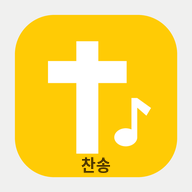
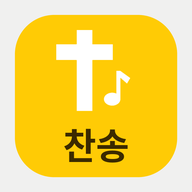
Add files via upload

Changed region(s): [[0.25, 0.1562, 0.7812, 0.9062]]

diff --git a/index.html b/index.html
@@ -3,7 +3,7 @@
 <head>
   <meta charset="UTF-8">
   <meta name="viewport" content="width=device-width, initial-scale=1.0, viewport-fit=cover">
-  <title>SK- 새찬송가앱</title>
+  <title>SK-hymn</title>
   <!-- PWA -->
   <link rel="manifest" href="manifest.webmanifest">
   <meta name="theme-color" content="#2563eb" id="themeColorMeta">
@@ -23,7 +23,7 @@
   <link rel="apple-touch-icon" href="apple-touch-icon.png">
   <meta name="apple-mobile-web-app-capable" content="yes">
   <meta name="apple-mobile-web-app-status-bar-style" content="default">
-  <meta name="apple-mobile-web-app-title" content="SK- 새찬송가앱">
+  <meta name="apple-mobile-web-app-title" content="SK-hymn">
   <style>
     :root {
       --bg: #ffffff;
@@ -226,8 +226,10 @@
     /* 제목을 누르면 목록으로 돌아간다는 작은 신호 */
     .viewer-title:active { opacity: .55; }
     .font-btns button.v-ico {
+      display: inline-flex; align-items: center; justify-content: center;
       font-size: 19px; line-height: 1; padding: 3px 7px; border: 0; background: none;
     }
+    .pen-ico { width: 17px; height: 17px; display: block; }
     /* 맨 오른쪽 작은 뒤로가기 */
     .font-btns button.v-back {
       font-size: 13px; font-weight: 700; padding: 5px 9px; border-radius: 7px;
@@ -414,20 +416,20 @@
     }
     .m-ok { background: var(--primary); color: #fff; }
     .m-cancel { background: var(--card-bg); color: var(--text); border: 1px solid var(--border) !important; }
-    .m-note { font-size: 12.5px; color: var(--sub-text); line-height: 1.55; margin: 10px 0; }
+    .m-note { font-size: 14px; color: var(--sub-text); line-height: 1.65; margin: 10px 0; }
     .m-sec { border-top: 1px solid var(--border); margin-top: 14px; padding-top: 14px; }
-    .m-sec-title { font-size: 14px; font-weight: bold; margin-bottom: 10px; }
+    .m-sec-title { font-size: 15.5px; font-weight: bold; margin-bottom: 10px; }
 
-    /* 가사 고치기 창만 화면 좌우를 넓게 쓴다 */
-    .modal.modal-wide { max-width: 680px; padding: 20px 22px; }
-    #modalWrap.wrap-wide { padding: 10px; }
+    /* 가사/CCM 편집 창은 화면을 최대한 넓게 사용한다 */
+    .modal.modal-wide { max-width: 780px; max-height: 92vh; padding: 18px 22px; }
+    #modalWrap.wrap-wide { padding: 8px; }
 
-    /* 가사 고치기 전용 — 글씨 크게 */
-    .modal textarea#edLyrics {
+    /* 편집창 가사 입력 영역 */
+    .modal textarea#edLyrics, .modal textarea#ccmLyrics {
       font-size: 20px !important; line-height: 1.7;
-      padding: 14px 16px; min-height: 42vh;
+      padding: 14px 16px; min-height: 55vh;
     }
-    .modal input#edTitle { padding: 12px 16px; }
+    .modal input#edTitle, .modal input#ccmTitle { padding: 12px 16px; }
     .modal input#edTitle { font-size: 20px; font-weight: 600; }
     .ed-size { display: flex; align-items: center; gap: 8px; margin: 2px 0 8px; }
     .ed-size button {
@@ -484,7 +486,7 @@
     /* 글자 크기 슬라이더 */
     .size-row { display: flex; align-items: center; gap: 10px; margin: 6px 0 2px; }
     .size-row input[type=range] { flex: 1; accent-color: var(--primary); }
-    .size-row .size-val { font-size: 13px; color: var(--sub-text); width: 44px; text-align: right; }
+    .size-row .size-val { font-size: 14.5px; color: var(--sub-text); width: 48px; text-align: right; }
     .size-prev { font-weight: 600; line-height: 1.5; padding: 10px 12px; background: var(--card-bg);
       border: 1px solid var(--border); border-radius: 9px; margin-top: 8px; }
 
@@ -538,7 +540,7 @@
     }
     .ver-main { font-size: 13px; color: var(--sub-text); }
     .ver-main b { color: var(--primary); }
-    .ver-sub { font-size: 11.5px; color: var(--sub-text); line-height: 1.6; margin-top: 3px; opacity: .85; }
+    .ver-sub { font-size: 13px; color: var(--sub-text); line-height: 1.6; margin-top: 3px; opacity: .9; }
 
     /* 토스트 */
     #toast {
@@ -579,8 +581,18 @@
       <div class="vh-top" onclick="vhTopTap(event)">
         <div class="vt-num" id="viewerNum"></div>
         <div class="font-btns">
-          <button id="btnEditCcm" style="display:none;" onclick="openCcmEditor(keyOf(currentHymn))">✏</button>
-          <button class="v-ico" id="btnEditLyrics" style="display:none;" onclick="openLyricsEditor()" title="가사 고치기">✏</button>
+          <button class="v-ico" id="btnEditCcm" style="display:none;" onclick="openCcmEditor(keyOf(currentHymn))" title="CCM 수정">
+            <svg class="pen-ico" viewBox="0 0 16 16" aria-hidden="true">
+            <path d="M4 12.4 L5.4 10.2 L10.3 5.3 L11.8 6.8 L6.9 11.7 Z" fill="currentColor"/>
+            <path d="M9.2 6.4 L10.6 7.8" stroke="var(--card-bg)" stroke-width="1" stroke-linecap="round"/>
+          </svg>
+          </button>
+          <button class="v-ico" id="btnEditLyrics" style="display:none;" onclick="openLyricsEditor()" title="가사 고치기">
+            <svg class="pen-ico" viewBox="0 0 16 16" aria-hidden="true">
+            <path d="M4 12.4 L5.4 10.2 L10.3 5.3 L11.8 6.8 L6.9 11.7 Z" fill="currentColor"/>
+            <path d="M9.2 6.4 L10.6 7.8" stroke="var(--card-bg)" stroke-width="1" stroke-linecap="round"/>
+          </svg>
+          </button>
           <button class="v-ico" onclick="addToPlaylistModal()" title="예배순서에 담기">＋</button>
           <button class="v-ico" id="viewerStar" onclick="toggleFavCurrent()" title="즐겨찾기">★</button>
           <button class="v-back" onclick="safeBack()" title="이전 화면으로">‹ 뒤로</button>
@@ -619,9 +631,9 @@
 
   <script>
     // ================== 앱 버전 ==================
-    const APP_VERSION = 'v9.9';
+    const APP_VERSION = 'v9.10';
     const APP_BUILD   = '2026-11-25';
-    const APP_NAME    = 'SK- 새찬송가앱';
+    const APP_NAME    = 'SK-hymn';
 
     let hymns = [];            // 찬송가 645장
     let ccms = [];             // ccm.json (파일로 올린 CCM)
@@ -1807,7 +1819,7 @@
         <div class="m-sec-title">제목</div>
         <input type="text" id="edTitle" value="${esc(h.title)}" autocomplete="off">
         <div class="m-sec-title">가사</div>
-        <textarea id="edLyrics" rows="13">${esc(h.lyrics || '')}</textarea>
+        <textarea id="edLyrics" rows="18">${esc(h.lyrics || '')}</textarea>
         <div class="m-note">\uc904\ubc14\uafc8\uc740 <b>\uc5d4\ud130</b>\ub85c \ub098\ub215\ub2c8\ub2e4. \uc808 \uc2dc\uc791\uc740 <code>(1) (2) (\ud6c4\ub834)</code> \ud615\uc2dd\uc744 \uc9c0\ucf1c \uc8fc\uc138\uc694.<br>
           \uc800\uc7a5\ud558\uba74 <b>\uadf8\uac83\uc774 \uc774 \uc571\uc758 \uac00\uc0ac\uac00 \ub429\ub2c8\ub2e4.</b> \uc5c5\ub370\uc774\ud2b8\ud574\ub3c4 \uc720\uc9c0\ub429\ub2c8\ub2e4.</div>
         <div class="m-btns" style="margin-top:12px;">
@@ -2091,7 +2103,7 @@
         <div class="m-sec-title">태그 (쉼표로 구분, 선택)</div>
         <input type="text" id="ccmTags" placeholder="예: 경배, 느린곡" value="${c ? esc((c.tags || []).join(', ')) : ''}" autocomplete="off">
         <div class="m-sec-title">가사</div>
-        <textarea id="ccmLyrics" rows="9" placeholder="(1) 첫째 절 가사&#10;(후렴) 후렴 가사&#10;(2) 둘째 절 가사">${c ? esc(c.lyrics) : ''}</textarea>
+        <textarea id="ccmLyrics" rows="16" placeholder="(1) 첫째 절 가사&#10;(후렴) 후렴 가사&#10;(2) 둘째 절 가사">${c ? esc(c.lyrics) : ''}</textarea>
         <div class="m-note">
           <b>(1) (2) (후렴)</b> 표기를 넣으면 프로젝터에서 한 절씩 넘어가고, 후렴은 색이 다르게 표시됩니다.
         </div>
@@ -2104,7 +2116,7 @@
           이 곡은 <b>내 폰에만</b> 저장됩니다. 교인 모두에게 배포하려면
           ⚙ 설정 → <b>내 CCM 내보내기</b>로 텍스트를 뽑아 <code>ccm.json</code>에 반영하세요.
         </div>
-      `);
+      `, true);
       setTimeout(() => { const i = $('ccmTitle'); if (i) i.focus(); }, 60);
     }
 
@@ -2264,30 +2276,30 @@
           <div class="m-btns">
             <button class="m-ok" onclick="openEditList()">목록 보기 · 내보내기</button>
           </div>
-          <div class="m-note">가사 화면의 <b>✏</b> 를 눌러 줄바꿈이나 오타를 고칠 수 있습니다. 고친 내용은 <b>이 폰에 저장</b>되고 앱을 업데이트해도 유지됩니다. 내보낸 <code>가사수정.json</code> 을 보내주시면 다음 버전부터 모든 교인에게 반영됩니다.</div>
+          <div class="m-note">가사 화면의 <b>연필 버튼</b>을 눌러 줄바꿈이나 오타를 고칠 수 있습니다. 고친 내용은 <b>이 폰에 저장</b>되고 앱을 업데이트해도 유지됩니다. 내보낸 <code>가사수정.json</code> 을 보내주시면 다음 버전부터 모든 교인에게 반영됩니다.</div>
         </div>
         <div class="m-sec">
           <div class="m-sec-title">🔤 글자 크기</div>
           <div class="size-row">
-            <span style="font-size:13px;">가</span>
+            <span style="font-size:14.5px;">가</span>
             <input type="range" id="sizeRange" min="17" max="48" step="1" value="${fontSize}" oninput="setFontSize(this.value)">
             <span style="font-size:22px;">가</span>
             <span class="size-val" id="sizeVal">${fontSize}px</span>
           </div>
-          <div class="size-hint" style="font-size:12.5px;color:var(--sub-text);margin:2px 0 8px;">가사 화면에서 두 손가락으로 벌리면 바로 커집니다</div>
+          <div class="size-hint" style="font-size:14px;color:var(--sub-text);margin:2px 0 8px;">가사 화면에서 두 손가락으로 벌리면 바로 커집니다</div>
           <div class="size-prev" id="sizePrev" style="font-size:${fontSize}px;">주 사랑 안에 우리 함께</div>
           <div class="m-sec-title" style="margin-top:14px;">📏 줄 간격 (행간)</div>
           <div class="size-row">
-            <span style="font-size:13px;">좁게</span>
+            <span style="font-size:14.5px;">좁게</span>
             <input type="range" id="lhRange" min="1.1" max="2.4" step="0.05" value="${lineH}" oninput="setLineH(this.value)">
-            <span style="font-size:13px;">넓게</span>
+            <span style="font-size:14.5px;">넓게</span>
             <span class="size-val" id="lhVal">${lineH.toFixed(2)}</span>
           </div>
           <div class="m-sec-title" style="margin-top:14px;">↕ 절과 절 사이 간격</div>
           <div class="size-row">
-            <span style="font-size:13px;">붙게</span>
+            <span style="font-size:14.5px;">붙게</span>
             <input type="range" id="gapRange" min="0" max="3" step="0.1" value="${verseGap}" oninput="setVerseGap(this.value)">
-            <span style="font-size:13px;">넓게</span>
+            <span style="font-size:14.5px;">넓게</span>
             <span class="size-val" id="gapVal">${verseGap.toFixed(1)}</span>
           </div>
           <div class="size-prev2" id="gapPrev" style="font-size:${Math.min(fontSize,20)}px;">
@@ -2296,7 +2308,7 @@
           </div>
           <div class="m-sec-title" style="margin-top:14px;">📽 프로젝터 글자 크기</div>
           <div class="size-row">
-            <span style="font-size:13px;">가</span>
+            <span style="font-size:14.5px;">가</span>
             <input type="range" id="projRange" min="60" max="220" step="5" value="${projScale}" oninput="setProjSize(this.value)">
             <span style="font-size:22px;">가</span>
             <span class="size-val" id="projVal">${projScale}%</span>
@@ -2867,7 +2879,7 @@
   </script>
   <div id="zoomBadge"></div>
   <div id="updBar">
-    <div class="txt">새 버전이 나왔습니다 <span id="updVer"></span><small>눌러서 바로 받기 (몇 초면 끝납니다)</small></div>
+    <div class="txt">SK-hymn 새 버전이 있습니다 <span id="updVer"></span><small>눌러서 바로 받기 (몇 초면 끝납니다)</small></div>
     <button onclick="forceUpdate()">업데이트</button>
     <button class="later" onclick="dismissUpdate()">나중에</button>
   </div>

diff --git a/sw.js b/sw.js
@@ -2,13 +2,14 @@
 // html/데이터는 '네트워크 우선': 파일을 올리면 다음 실행 때 자동으로 새 버전이 반영됩니다.
 // (인터넷이 없으면 저장해 둔 복사본으로 보여 줍니다)
 //
+// v9.10 변경점: 앱 이름 SK-hymn, 아이콘 글자 확대, 편집창 확대, 설정 안내 글자 확대
 // v9.9 변경점: 아이콘에 "찬송" 텍스트 추가, 마스커블 아이콘 분리, 캐시 정리 범위 제한
 // v4 변경점
 //  1) addAll → 개별 add + allSettled : 파일 하나가 404여도 나머지는 정상 캐시됨
 //  2) 페이지 요청 판별을 경로 정규식 → request.mode === 'navigate' 로 변경
 //     (https://계정.github.io/저장소/ 처럼 /index.html 이 안 붙는 주소에서도 새 버전이 내려옴)
 //  3) 오프라인 시 네비게이션 요청은 index.html 캐시로 폴백
-const CACHE = 'hymnal-v9-9';
+const CACHE = 'hymnal-v9-10';
 const ASSETS = [
   './',
   './index.html',

diff --git a/README.md b/README.md
@@ -1,4 +1,4 @@
-# 🎵 SK새찬송가 앱 (645곡)
+# 🎵 SK-hymn (새찬송가 645곡)
 
 **앱 주소 → https://psungkim-svg.github.io/hymn/**
 
@@ -12,16 +12,17 @@
 | `hymns.json` | 찬송가 645곡 (num / title / lyrics) |
 | `categories.json` | 주제 분류 (themes / tags) — 곡당 태그 **1개 사용** |
 | `ccm.json`, `en.json` | CCM / 영어 찬송 (내 모드에서만 표시) |
-| `manifest.webmanifest` | 앱 정보 (이름·아이콘·색상) — **확장자 `.txt` 붙으면 설치가 깨짐** |
+| `manifest.webmanifest` | 앱 정보 (이름 `SK-hymn` · 아이콘 · 색상) — **확장자 `.txt` 붙으면 설치가 깨짐** |
 | `sw.js` | 오프라인 캐싱 (서비스 워커) |
 | `version.json` | 새 버전 알림용 버전 정보 |
-| `icon-192.png`, `icon-512.png` | 일반 앱 아이콘 (“찬송” 글자 포함) |
+| `icon-192.png`, `icon-512.png` | 일반 앱 아이콘 (“찬송” 글자 확대) |
 | `icon-maskable-512.png` | 마스커블 아이콘 (원형/사각 마스크용, 배경 전체 노란색) |
 | `apple-touch-icon.png` | iPhone 홈 화면 아이콘 |
 
-> 아이콘 3종은 모두 같은 디자인이며, `icon-maskable-512.png`만 배경을 캔버스 전체로 채운 버전입니다.
+> 아이콘 3종은 같은 구도이며, “찬송” 글자를 Small 아이콘에서도 읽히도록 크게 늘렸습니다.  
+> `icon-maskable-512.png`만 배경을 캔버스 전체로 채운 버전입니다.
 
-> ℹ **내 모드 안내**: 정적 웹앱이라 `ccm.json` / `en.json` 자체는 공개 URL에 있고, 기기에서 `hymn_owner` 값을 바꾸면 탭을 켤 수 있습니다. 내 모드는 **화면 분리용**이며 접근 통제용 보안 기능은 아닙니다. 콘텐츠를 반드시 숨겨야 하면 별도 인증/서버가 필요합니다.
+> ℹ **내 모드 안내**: 정적 웹앱이라 `ccm.json` / `en.json` 자체는 공개 URL에 있고, 기기에서 `hymn_owner` 값을 바꾸면 탭을 켤 수 있습니다. 내 모드는 **화면 분리용**이며 접근 통제용 보안 기능은 아닙니다.
 
 ## 📱 폰에 설치하기
 
@@ -31,38 +32,32 @@
 
 ## 🧩 주요 기능
 
-- 🔢 **번호 키패드** — 예배 중 숫자 빠르게 입력, 제목 실시간 확인 후 자동 열기
-- 🔍 **검색** — 번호 / 제목 / 가사 / 초성(ㅅㅈ), 가사 검색 시 해당 줄 미리보기 + 하이라이트
-- 📂 **분류별** — 40개 주제 태그, 원하는 곡을 분류에 직접 추가 가능 (곡당 태그 1개 정책)
-- ✏ **내 분류** — 나만의 분류 만들기
-- 📋 **예배 순서** — 곡 묶음 저장·순서 변경·“이 순서로 보기”
-- 📽 **프로젝터 모드** — 절 단위 큰 글씨, 화면 꺼짐 방지, 예배순서 다음 곡 자동 연결
-- ⭐ **즐겨찾기** — `내 순서 / 번호순` 전환, ☰ 잡고 드래그로 정렬
-- 🔤 **글자 크기** — 슬라이더(17~48px) + 프로젝터 전용 크기(60~220%) 별도 저장
-- 📋 복사 / 🔗 공유 / 🌙 다크모드 / ⬅ 폰 뒤로가기 연동
-- 💾 백업·복원 — 기기 바꿀 때 즐겨찾기·예배순서·분류·가사수정 이전
+- 🔢 번호 키패드 / 🔍 번호·제목·가사·초성 검색
+- 📂 40개 주제 분류, 곡당 태그 1개 정책
+- ✏ 가사 고치기 — 연필 버튼 굵기는 유지, 길이만 짧게 정리 / 편집창 가사 입력 공간 확대
+- 📋 예배 순서 저장·정렬·자동 연결
+- 📽 프로젝터 모드 — 절 단위 넘김, 화면 꺼짐 방지
+- ⭐ 즐겨찾기, 🔤 글자 크기(17~48px), 📽 프로젝터 크기(60~220%), 🌙 다크모드
+- 💾 백업·복원 (검증된 데이터만 복원)
 
-## 🔄 업데이트 방법 (가사 수정·기능 추가 후)
+## 🔄 업데이트 방법
 
 1. 바뀐 파일을 저장소에 업로드
-2. **`sw.js` 상단 `CACHE = 'hymnal-v9-9'` 의 버전을 반드시 올리기** (예: `hymnal-v9-10`)
-3. `index.html`의 `APP_VERSION`, `version.json`의 `version` 값도 같은 값으로 올리기
-4. 1~2분 뒤 Pages 반영 → 사용자는 앱을 한 번 열면 자동 갱신
+2. **`sw.js` 상단 `CACHE = 'hymnal-v9-10'` 버전을 올리기** (예: `hymnal-v9-11`)
+3. `index.html`의 `APP_VERSION`, `version.json`의 `version`도 같은 값으로 올리기
+4. 1~2분 뒤 Pages 반영 → 앱을 한 번 열면 자동 갱신
 
-> 안 바뀌는 폰이 있으면: ⚙ 설정 맨 아래 버전 글씨를 7번 연속 탭 → 캐시를 비우고 최신 파일을 강제로 다시 받습니다.
+> 안 바뀌는 폰이 있으면 ⚙ 설정 맨 아래 버전 글씨를 7번 연속 탭 → 캐시를 비우고 최신 파일을 다시 받습니다.
 
-## 🔧 v9.9 수정 사항
+## 🔧 v9.10 수정 사항
 
-- CCM/영어 목록의 ★ 즐겨찾기 버튼이 동작하지 않던 문제 수정
-- 백업 복원 시 조작된 `id`로 스크립트가 실행될 수 있던 문제 수정 (입력 화이트리스트 검증)
-- `manifest.webmanifest` 추가 및 `orientation: any`, 마스커블 아이콘 분리
-- 프로젝터 모드와 충돌하던 세로 방향 고정 해제
-- “내 모드”를 껐을 때 내 CCM이 최근 목록에 남아 보이던 문제 수정
-- 캐시/서비스워커 초기화 범위를 이 앱(`hymnal-` 접두사)으로 제한
-- README의 버전·글자 크기 범위를 실제 코드와 일치시킴
-- 아이콘에 “찬송” 글자 추가
+- 앱 이름/업데이트 알림 이름을 **SK-hymn**으로 변경
+- 편집 연필 아이콘: 굵기 유지, 길이만 짧게 (SVG로 교체)
+- 가사/CCM 편집창의 가사 입력 영역을 가로·세로 모두 확대
+- 홈 화면 아이콘의 “찬송” 글자를 훨씬 크게 개선 (작은 아이콘에서도 읽힘)
+- 설정 화면의 설명·소제목·버전 정보 글자 크기 상향
+- v9.9의 보안/캐시/분류 수정 사항 유지
 
 ## 🔢 현재 버전
 
-**v9.9** (빌드 2026-11-25) · 캐시 `hymnal-v9-9`
-설정(⚙) 맨 아래에서 버전·곡 수·온라인 상태·오프라인 저장 작동 여부를 확인할 수 있습니다.
+**SK-hymn v9.10** (빌드 2026-11-25) · 캐시 `hymnal-v9-10`
